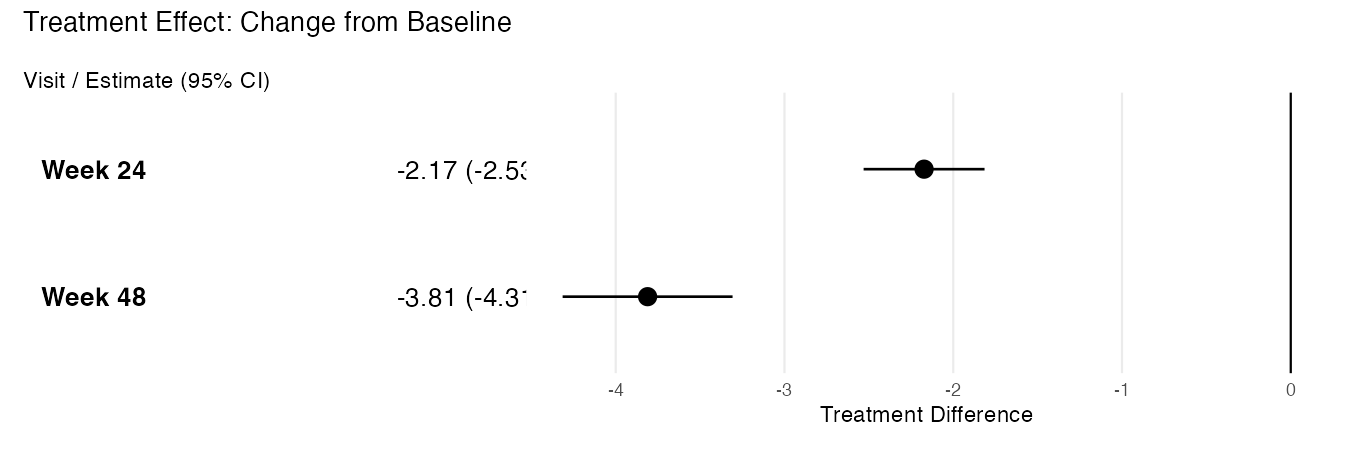
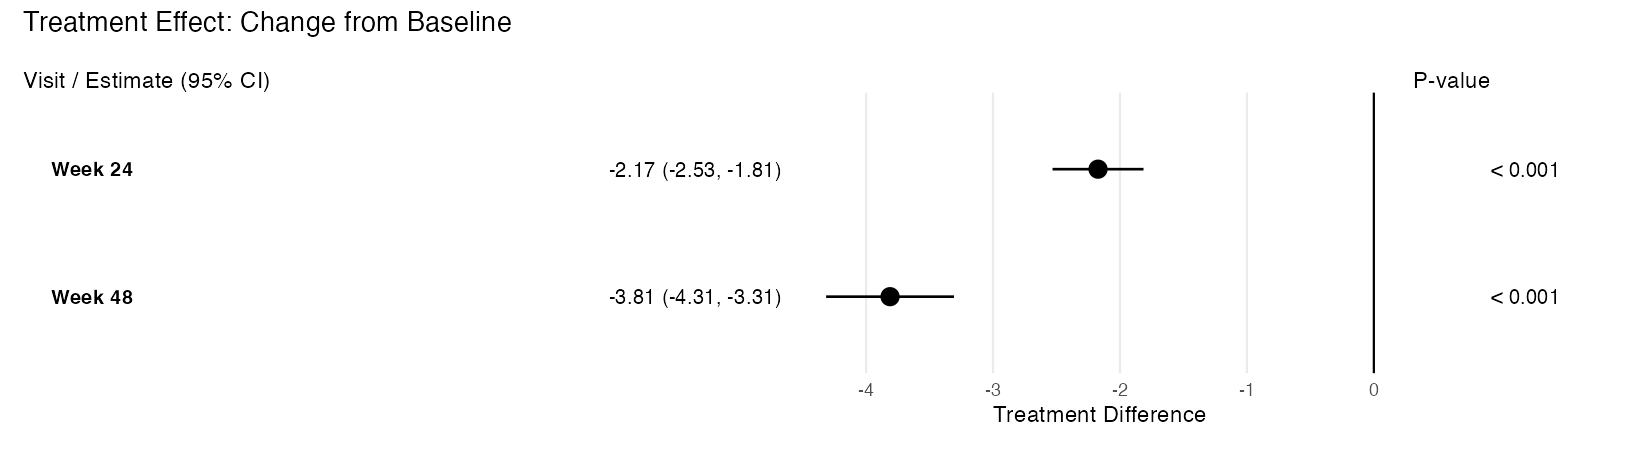
fix(11-03): fix forest plot clipping and rbmi link
- Wider text panel (panel_widths c(5,4,1.5)) so CI text is not clipped
- Restored p-value panel (show_pvalues=TRUE)
- Fixed rbmi link from insightsengineering to openpharma

diff --git a/README.md b/README.md
@@ -29,10 +29,9 @@ GitHub:
 
 ## Quick Start
 
-`rbmiUtils` extends the
-[rbmi](https://insightsengineering.github.io/rbmi/) pipeline from raw
-data to publication-ready outputs. Here is the complete workflow using
-the bundled `ADEFF` dataset:
+`rbmiUtils` extends the [rbmi](https://openpharma.github.io/rbmi/)
+pipeline from raw data to publication-ready outputs. Here is the
+complete workflow using the bundled `ADEFF` dataset:
 
 ``` r
 library(rbmiUtils)
